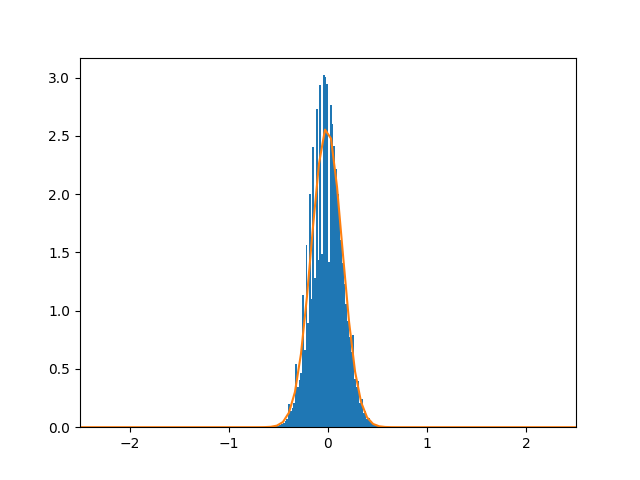
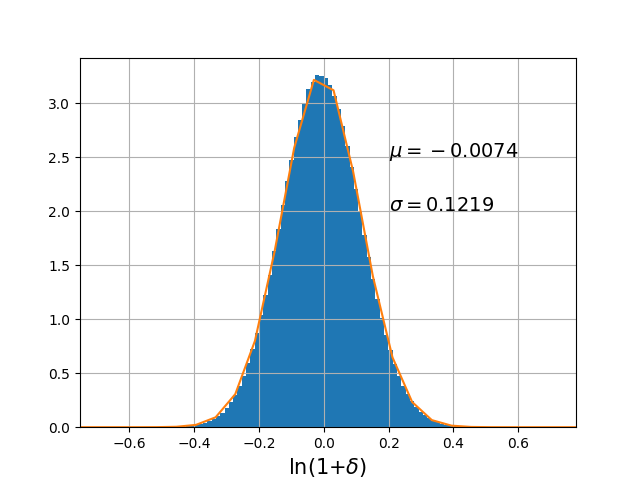
Loads the npz file, split fit_and_select into separate scripts

diff --git a/fit.py b/fit.py
@@ -1,0 +1,45 @@
+"""
+
+    Script to load the delta values created using the chosen gridsize and plots
+    the gaussian fit to log10(1+delta). 
+
+"""
+
+
+import numpy as np
+import pandas as pd
+
+from scipy.stats import norm
+from scipy.spatial.distance import cdist
+from methods import simulation, grid_coordinates
+
+import matplotlib
+matplotlib.use('Agg')
+import matplotlib.pyplot as plt
+
+
+sim = simulation()
+sim.show()
+
+dat = np.load('conv_output.npz')['delta']
+
+delta_log = np.log(dat)
+mu, sig = norm.fit(delta_log.flatten())
+
+norm = norm(loc=mu,scale=sig)
+
+import pickle as pcl
+pcl.dump(norm,open('log_delta_fit.p','wb'))
+
+## Plot distribution and fit
+fig, ax = plt.subplots(1,1)
+ax.hist(delta_log.flatten(), density='normed',bins=100)
+x = np.linspace(-3,3,100)
+ax.plot(x,norm.pdf(x))
+ax.set_xlim(np.min(delta_log)-0.1,np.max(delta_log)+0.1)
+ax.grid(True)
+ax.text(0.2, 2.5, r'$\mu={}$'.format(np.round(mu,4)), fontsize = 14)
+ax.text(0.2, 2., r'$\sigma={}$'.format(np.round(sig,4)), fontsize = 14)
+ax.set_xlabel(r'ln(1+$\delta$)', fontsize = 15)
+plt.savefig('log_fit.png')
+# plt.show()

diff --git a/select_regions.py b/select_regions.py
@@ -1,3 +1,9 @@
+"""
+
+    Script to load the delta values created using the chosen gridsize and selects
+    regions for resimulation
+
+"""
 
 import numpy as np
 import pandas as pd
@@ -17,8 +23,7 @@ req = float(sys.argv[1])   #receiving the required sigma region at runtime
 sim = simulation()
 sim.show()
 
-dat = np.load('conv_output.npz')
-dat = dat['delta']
+dat = np.load('conv_output.npz')['delta']
 
 delta_log = np.log(dat)
 mu, sig = norm.fit(delta_log.flatten())
